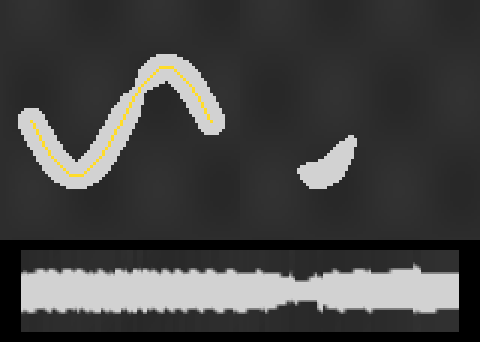
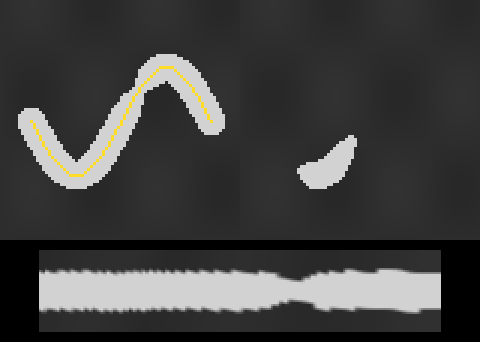
Smooth and resample centered paths
smooth_path averages each inner point of a path with its neighbors and
keeps the ends, and resample_path places points at even arc lengths.
The vessel example now straightens along its smoothed path, so the
straightened vessel has smooth edges.

Closes #1052

Claude-Session: https://claude.ai/code/session_018jvzBPa8BYw1FequuqYvT5

Changed region(s): [[0.0312, 0.731, 0.875, 0.9942], [0.8125, 0.731, 0.9688, 0.9942]]

diff --git a/docs/wiki/Medical-imaging.md b/docs/wiki/Medical-imaging.md
@@ -35,7 +35,7 @@ The left panel is the ray cast volume, cut in half. The middle panel is the same
 | `overlay` | `render_slice`, `overlay_labels`, `draw_measurement` and `label_color` |
 | `reformat` | `oblique_slice`, `slab_projection` and `sample_point` |
 | `curved` | `curved_reformat` |
-| `path` | `label_path` |
+| `path` | `label_path`, `smooth_path` and `resample_path` |
 | `resample` | `resample_volume` and `resample_labels` |
 
 ## Read a DICOM series
@@ -487,11 +487,19 @@ var image = curved_reformat(volume, centerline, v3(0, 0, 1), 40, Length64(0.5, M
 
 Each step of the path goes to one of the 26 neighbors of a voxel, inside the label. A step of length `s` between voxels at the distances `d1` and `d2` from the label's edge costs `s * (1 / d1^2 + 1 / d2^2) / 2`. A step near the edge costs much more than a step down the middle.
 
-Dijkstra's method finds the path of least total cost. The distances are exact, with the spacing of each axis, and the grid's edge counts as outside. The result keeps the window of the source. It is not a plane in patient space, so its origin is zero and its axes are those of the grid.
+Dijkstra's method finds the path of least total cost. The distances are exact, with the spacing of each axis, and the grid's edge counts as outside.
+
+A chain of voxel centers turns in steps of 45 degrees, so a curved reformat along it has jagged edges. Smooth it first, and give it even steps:
+
+```mojo
+var even = resample_path(smooth_path(centerline, 4), Length64(0.25, MILLIMETER64))
+```
+
+`smooth_path(path, passes)` puts each inner point at `(before + 2 * point + after) / 4` in each pass, and keeps the two ends. A straight run stays where it is, and a zigzag of one step goes flat in one pass. `resample_path(path, spacing)` places points at the arc lengths 0, `spacing`, `2 * spacing` and on, and ends at the path's last point. The result keeps the window of the source. It is not a plane in patient space, so its origin is zero and its axes are those of the grid.
 
 ![A winding vessel: its projection with the centered path in yellow, one axial slice, and the vessel straightened with a narrowing](out/vessel.png)
 
-`examples/vessel.mojo` makes this picture. A synthetic vessel of 300 HU winds through soft tissue of about 40 HU, in all three axes. Its radius is 2.4 mm, and it narrows to half of that partway along. A threshold labels it, and `keep_largest` keeps it whole with `CORNERS`. `label_path` finds its centered path, and `curved_reformat` straightens it.
+`examples/vessel.mojo` makes this picture. A synthetic vessel of 300 HU winds through soft tissue of about 40 HU, in all three axes. Its radius is 2.4 mm, and it narrows to half of that partway along. A threshold labels it, and `keep_largest` keeps it whole with `CORNERS`. `label_path` finds its centered path. `smooth_path` and `resample_path` smooth it, and `curved_reformat` straightens the vessel along it.
 
 The top left panel is the maximum intensity projection along z, with the path in yellow. The top right panel is one axial slice, which cuts the vessel once. The band below is the straightened vessel, where the narrowing is plain to see. Along the path of 54.7 mm, the distance to the edge is least at 34.9 mm: 1.12 mm, against the narrowest radius of 1.2 mm. The distance runs to the centers of the voxels outside, so it is less than the radius.
 
@@ -532,6 +540,7 @@ The tests check these results:
 - A volume cut into slices, written, read and stacked gives the same values and spacing.
 - `trilinear` is exact for a linear field.
 - An oblique reformat of a linear field matches the field at every pixel.
+- Smoothing keeps a straight run on its line and its ends in place, and flattens a zigzag of one step in one pass. A bent path resampled every 0.5 mm has its corner on a sample, and every step is 0.5 mm.
 - The centered path through a straight tube runs down its axis, and a start off the axis joins the axis. Through a bent tube, each step goes to a neighbor inside the label, and the path straightens into a curved reformat.
 - A curved reformat along a straight path matches a linear field at every pixel. Along a bent path, the corner falls at its arc length, and an `up` that leans along the path keeps only its square part. A point past the volume takes the `outside` value.
 - A linear field resampled from 0.5 x 0.5 x 3 mm voxels to 1 mm cubes keeps its value at every new voxel. A label slice of 3 mm becomes the three 1 mm slices nearest to it.
@@ -580,6 +589,7 @@ Every function raises `Error` for input it cannot use. The table gives the cases
 | A window, step, ambient light or crop is out of range | `render_volume`, `render_slice` |
 | A slab mode, thickness or plane count is out of range | `slab_projection` |
 | An end of a centered path is outside the grid or the label, or no path joins the ends | `label_path` |
+| A path has fewer than two points or two equal points in a row, or a pass count or a spacing is out of range | `smooth_path`, `resample_path` |
 | A path has fewer than two points or two equal points in a row, `up` is zero or along a segment, or a size is out of range | `curved_reformat` |
 | A circle has a bad axis, slice, center or radius, or holds no pixel center | `circle_statistics` |
 | Two maps differ in grid or spacing, or a label is the background or empty | `compare_labels` |
@@ -600,7 +610,7 @@ Every function raises `Error` for input it cannot use. The table gives the cases
 - The ray caster runs on the CPU only. It has no GPU path and no parity test.
 - Rendering uses the volume frame. It does not apply the patient orientation.
 - A circle counts whole pixels by their centers. It does not weigh the pixels that its edge cuts.
-- A centered path is a chain of voxel centers, with steps of one voxel. It is not smoothed.
+- A centered path is a chain of voxel centers. `smooth_path` smooths it, but does not keep it inside the label at a sharp bend of a thin structure.
 - The connectivity of `label_surface`, the surfaces and the morphology is by faces. The `Connectivity` choice applies to the pieces and to region growing only.
 - The colors of a transfer function are display values. They are not linear light.
 

diff --git a/README.md b/README.md
@@ -857,6 +857,7 @@ Medical images, macromolecules and solid mechanics, for research and teaching. A
 - [x] [Oblique reformats](https://github.com/SethKitchen/ThreeMojo/wiki/Medical-imaging#reformat-on-any-plane): volumes resampled on any plane in patient space, drawn as slices [#1001](https://github.com/SethKitchen/ThreeMojo/issues/1001)
 - [x] [Curved reformats](https://github.com/SethKitchen/ThreeMojo/wiki/Medical-imaging#straighten-a-curved-structure): a vessel or an airway straightened along a path into one image [#1047](https://github.com/SethKitchen/ThreeMojo/issues/1047)
 - [x] [Centered paths](https://github.com/SethKitchen/ThreeMojo/wiki/Medical-imaging#straighten-a-curved-structure): the path through a label that keeps to its middle, such as a vessel's centerline [#1048](https://github.com/SethKitchen/ThreeMojo/issues/1048)
+- [x] [Smooth paths](https://github.com/SethKitchen/ThreeMojo/wiki/Medical-imaging#straighten-a-curved-structure): centered paths smoothed and resampled at even steps, for curved reformats without jagged edges [#1052](https://github.com/SethKitchen/ThreeMojo/issues/1052)
 - [x] [Vessel example](https://github.com/SethKitchen/ThreeMojo/wiki/Medical-imaging#straighten-a-curved-structure): a winding vessel labeled, followed by its centered path and straightened, with its narrowest radius measured [#1049](https://github.com/SethKitchen/ThreeMojo/issues/1049)
 - [x] [Label maps and measurements](https://github.com/SethKitchen/ThreeMojo/wiki/Medical-imaging#label-a-volume): thresholds, region growing, the largest piece, label surfaces, statistics in units, slice overlays and measurement lines [#989](https://github.com/SethKitchen/ThreeMojo/issues/989)
 - [x] [Volume filters](https://github.com/SethKitchen/ThreeMojo/wiki/Medical-imaging#filter-a-volume): separable Gaussian blurs with widths in units, and median filters that keep edges [#1009](https://github.com/SethKitchen/ThreeMojo/issues/1009)
